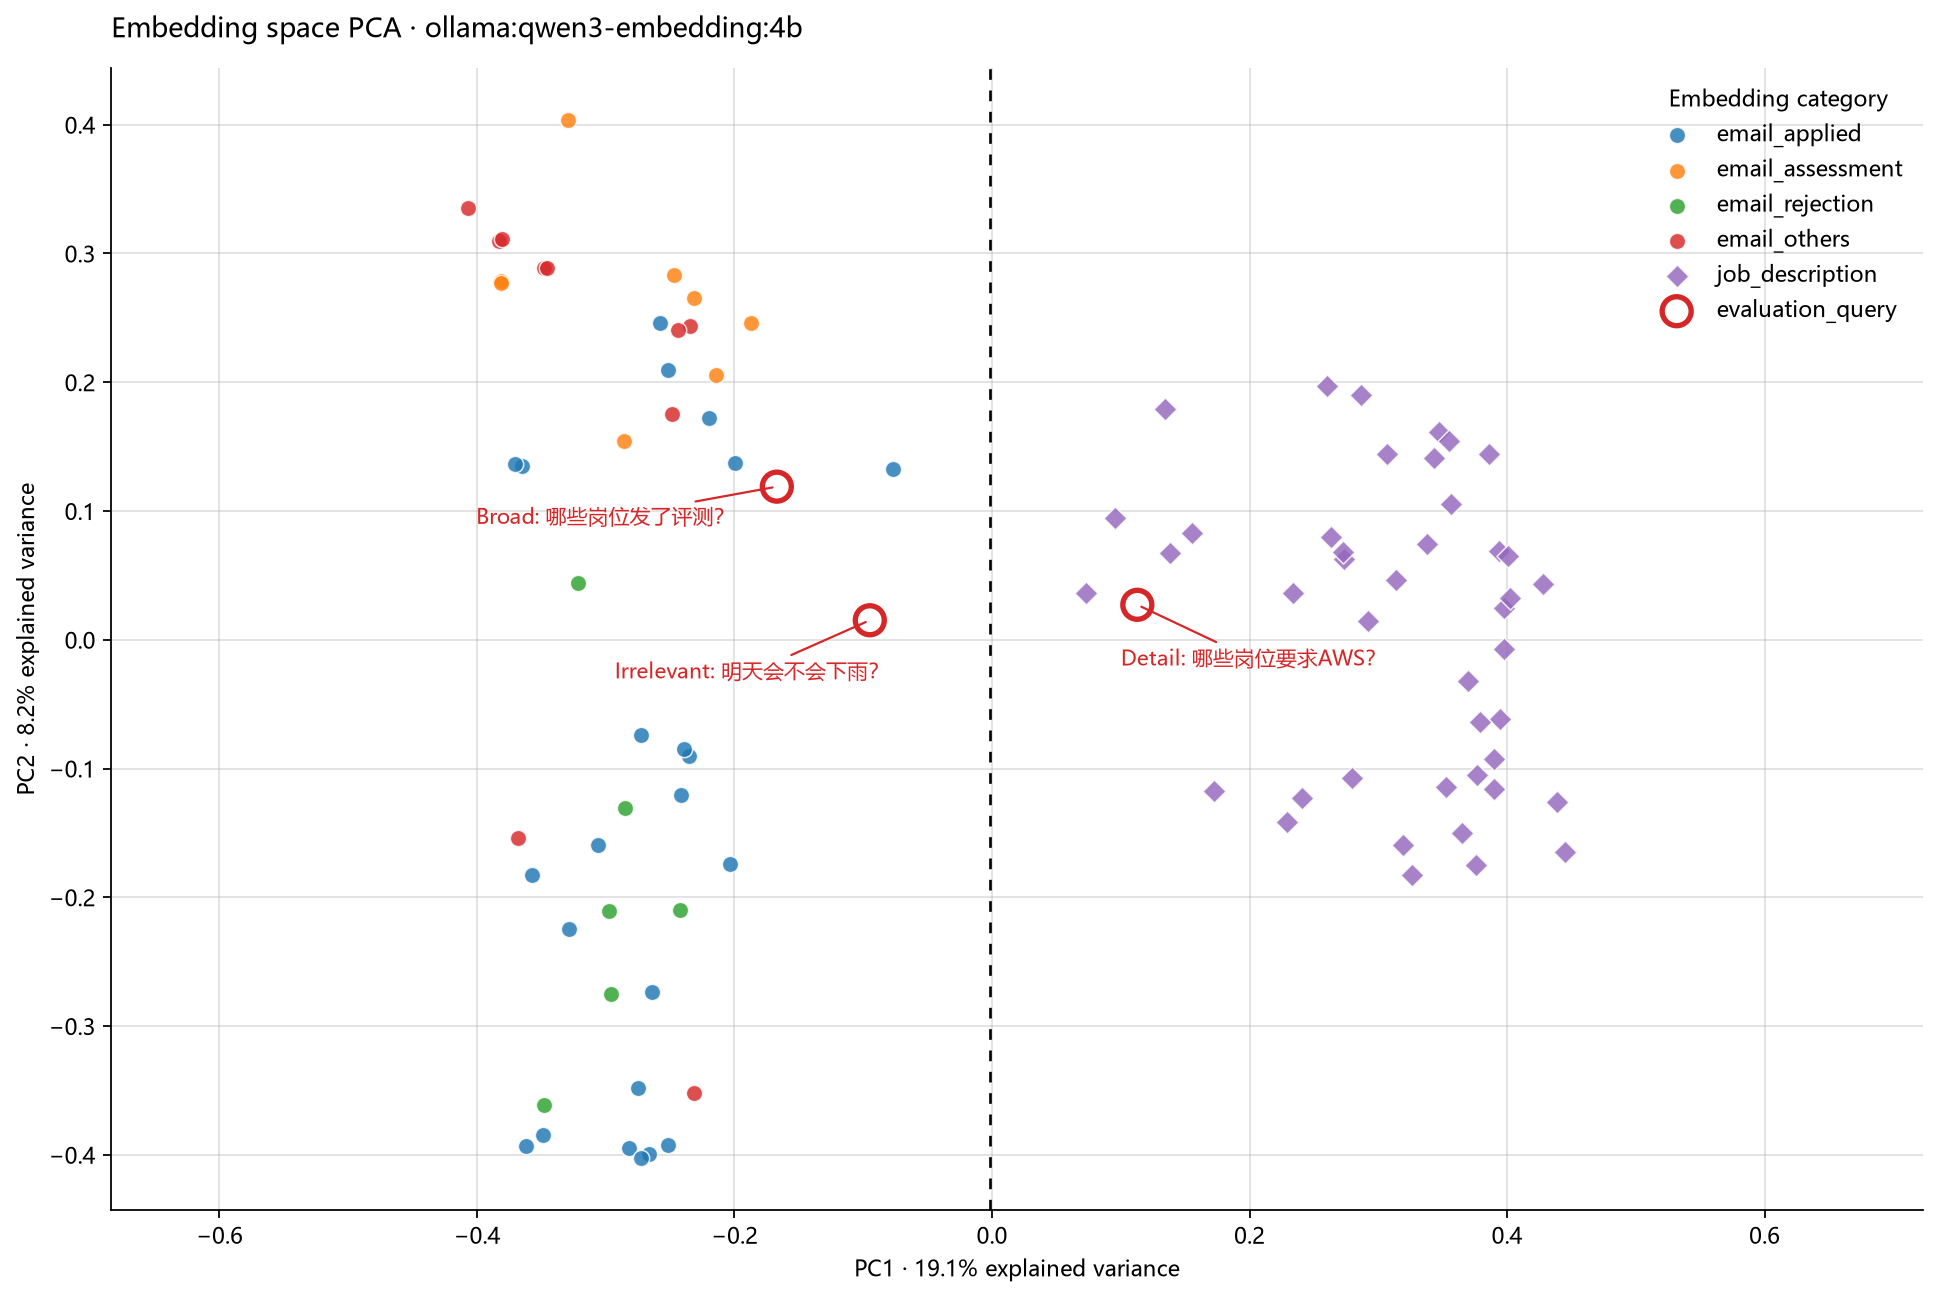
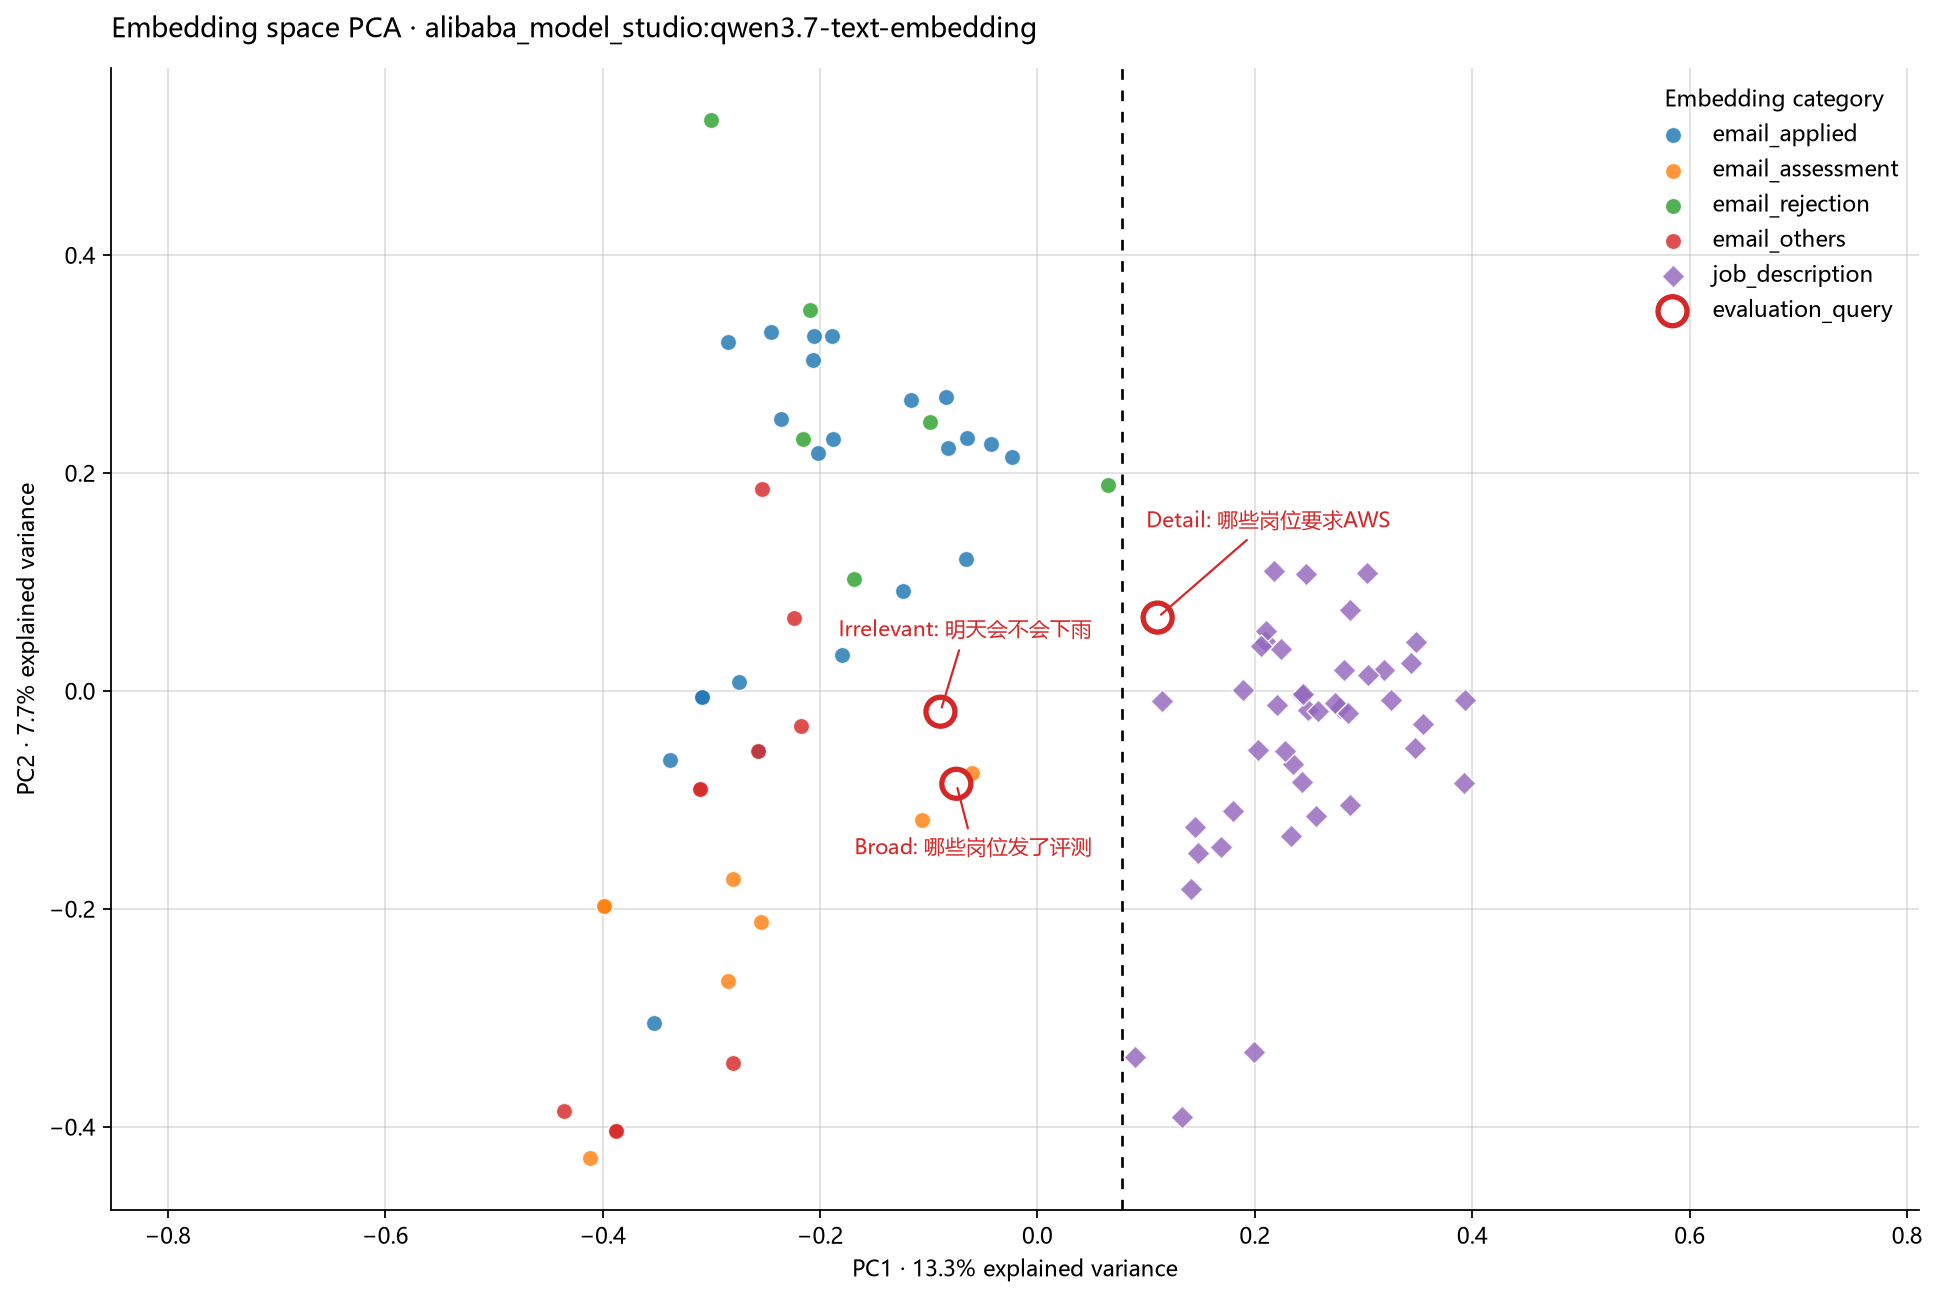
eval: refresh evaluation results after switching to cloud inference

diff --git a/scripts/eval/visualize_embeddings.py b/scripts/eval/visualize_embeddings.py
@@ -44,9 +44,9 @@ CATEGORY_COLORS = dict(zip(CATEGORY_ORDER, TABLEAU_COLORS.values()))
 PRIMARY_EMAIL_TYPES = {"applied", "assessment", "rejection"}
 QUERY_COLOR = TABLEAU_COLORS["tab:red"]
 EVALUATION_QUERIES = (
-    ("Broad", "哪些岗位发了评测？"),
-    ("Detail", "哪些岗位要求AWS？"),
-    ("Irrelevant", "明天会不会下雨？"),
+    ("Broad", "哪些岗位发了评测"),
+    ("Detail", "哪些岗位要求AWS"),
+    ("Irrelevant", "明天会不会下雨"),
 )
 
 
@@ -223,9 +223,9 @@ def write_figure(
         zorder=5,
     )
     annotation_layouts = (
-        ((-0.20, 0.09), "right"),   # Broad: assessement query
-        ((0.10, -0.02), "left"),     # Detail: AWS query
-        ((-0.08, -0.03), "right"),   # Irrelevant: weather query
+        ((0.05, -0.15), "right"),   # Broad: assessement query
+        ((0.10, 0.15), "left"),     # Detail: AWS query
+        ((0.05, 0.05), "right"),    # Irrelevant: weather query
     )
     for (pc1, pc2, prompt_type, query), (offset, alignment) in zip(
         query_points, annotation_layouts, strict=True
